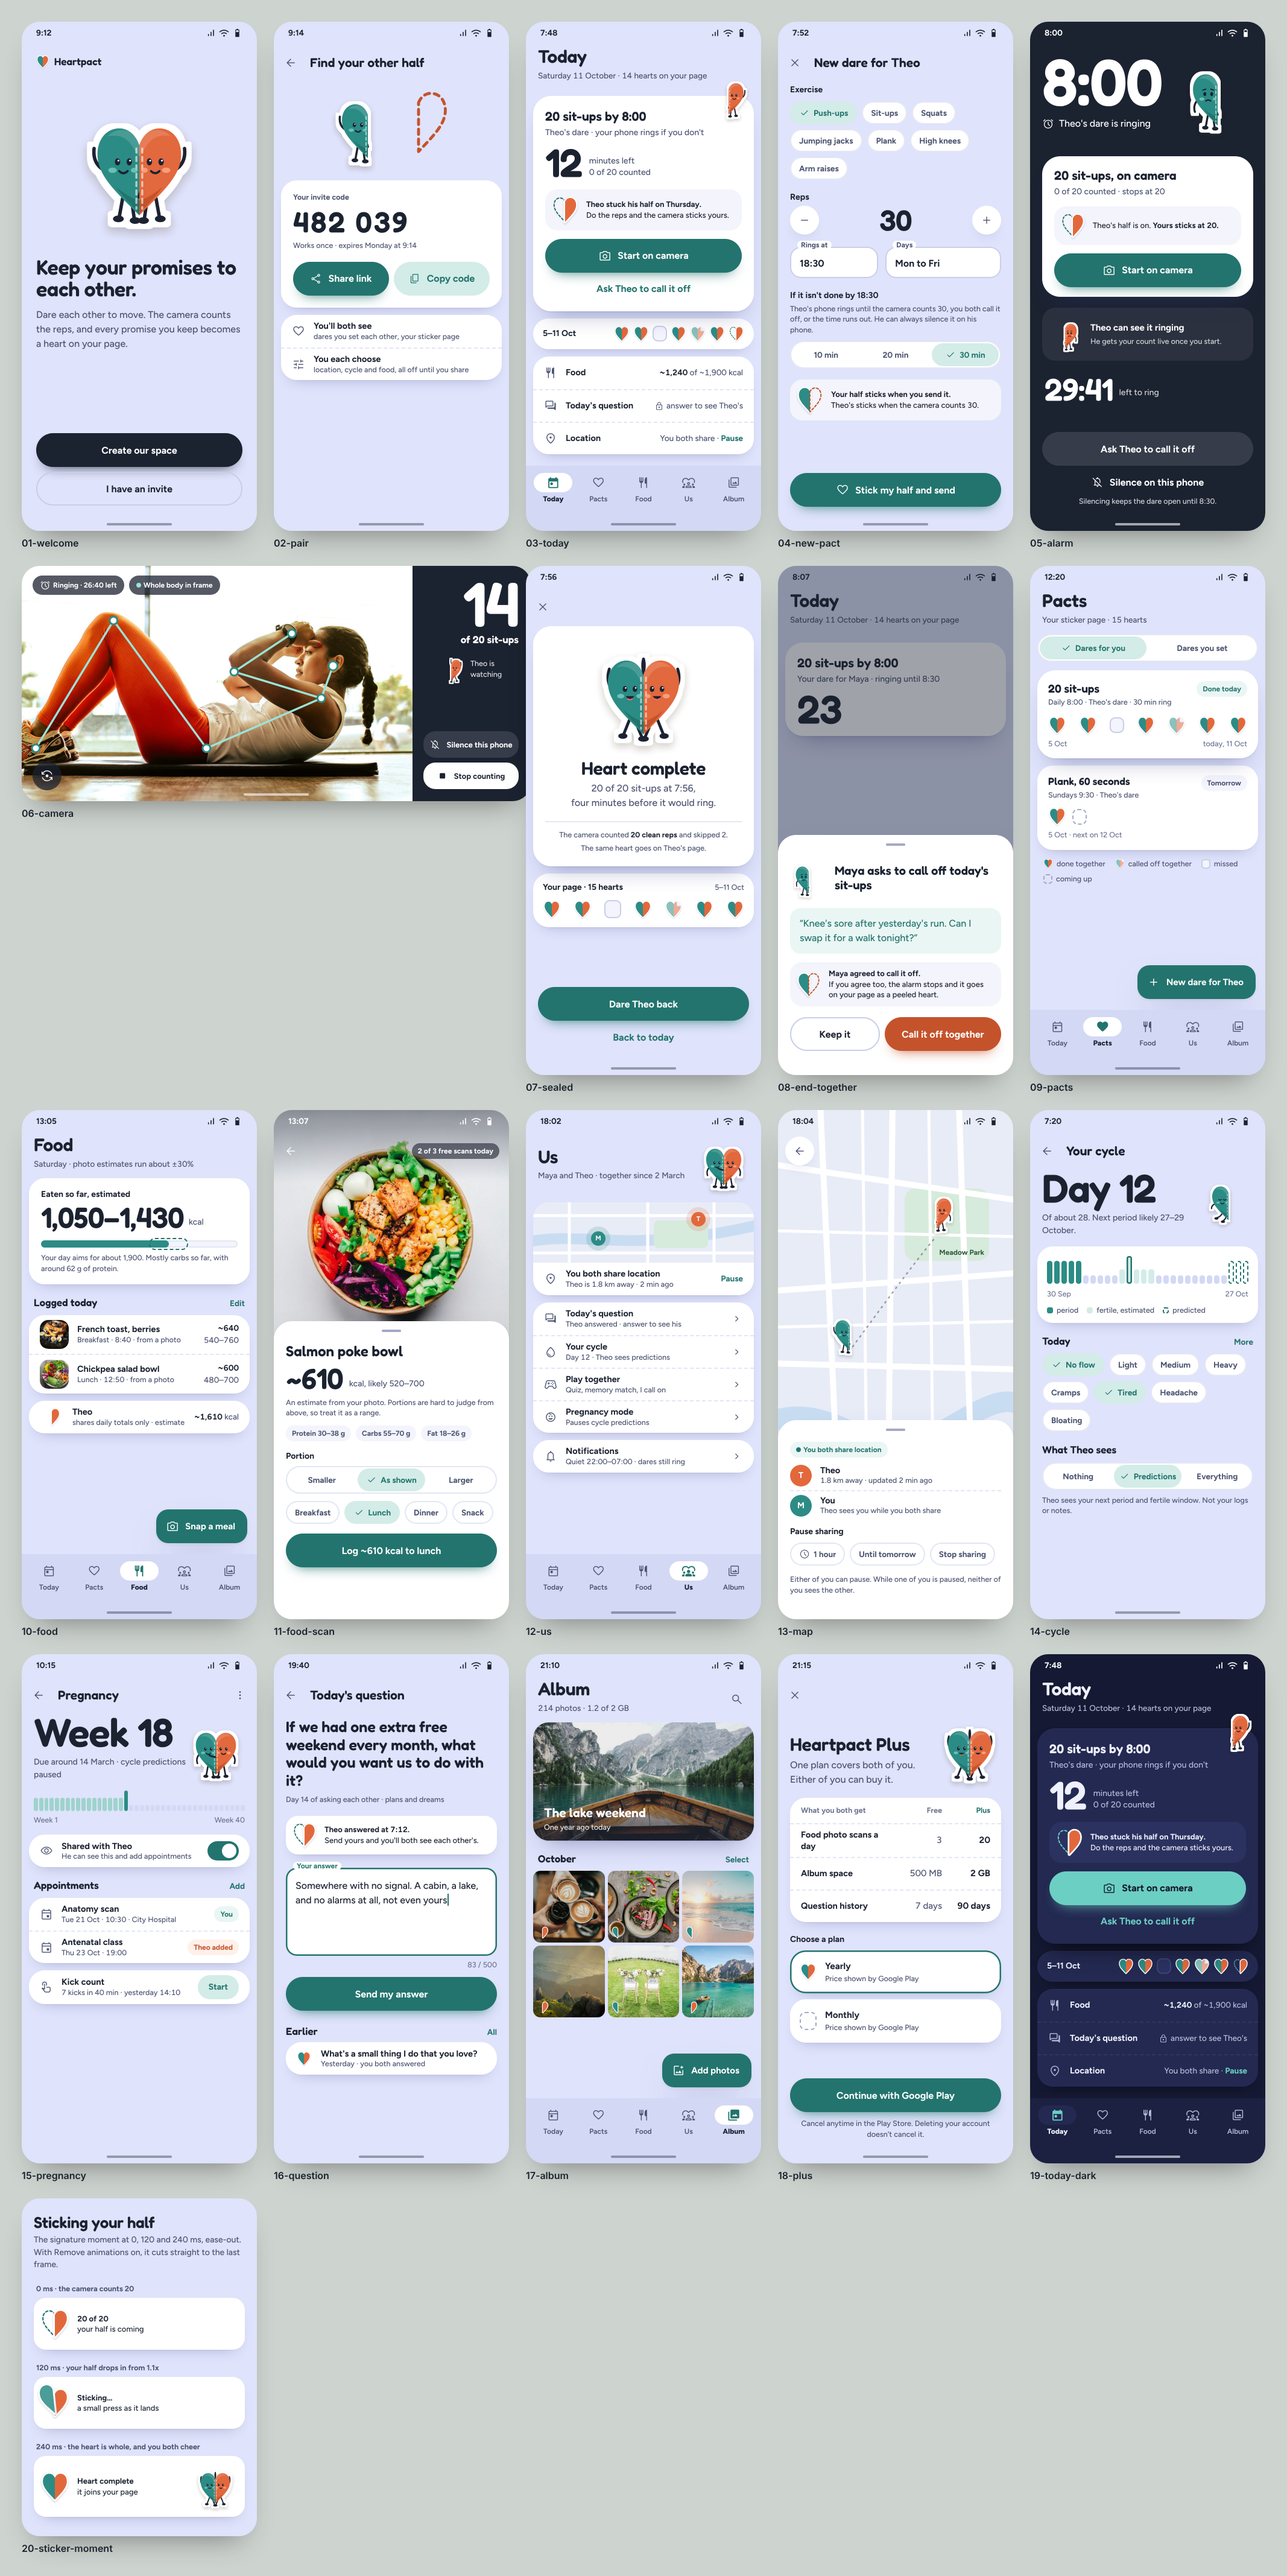
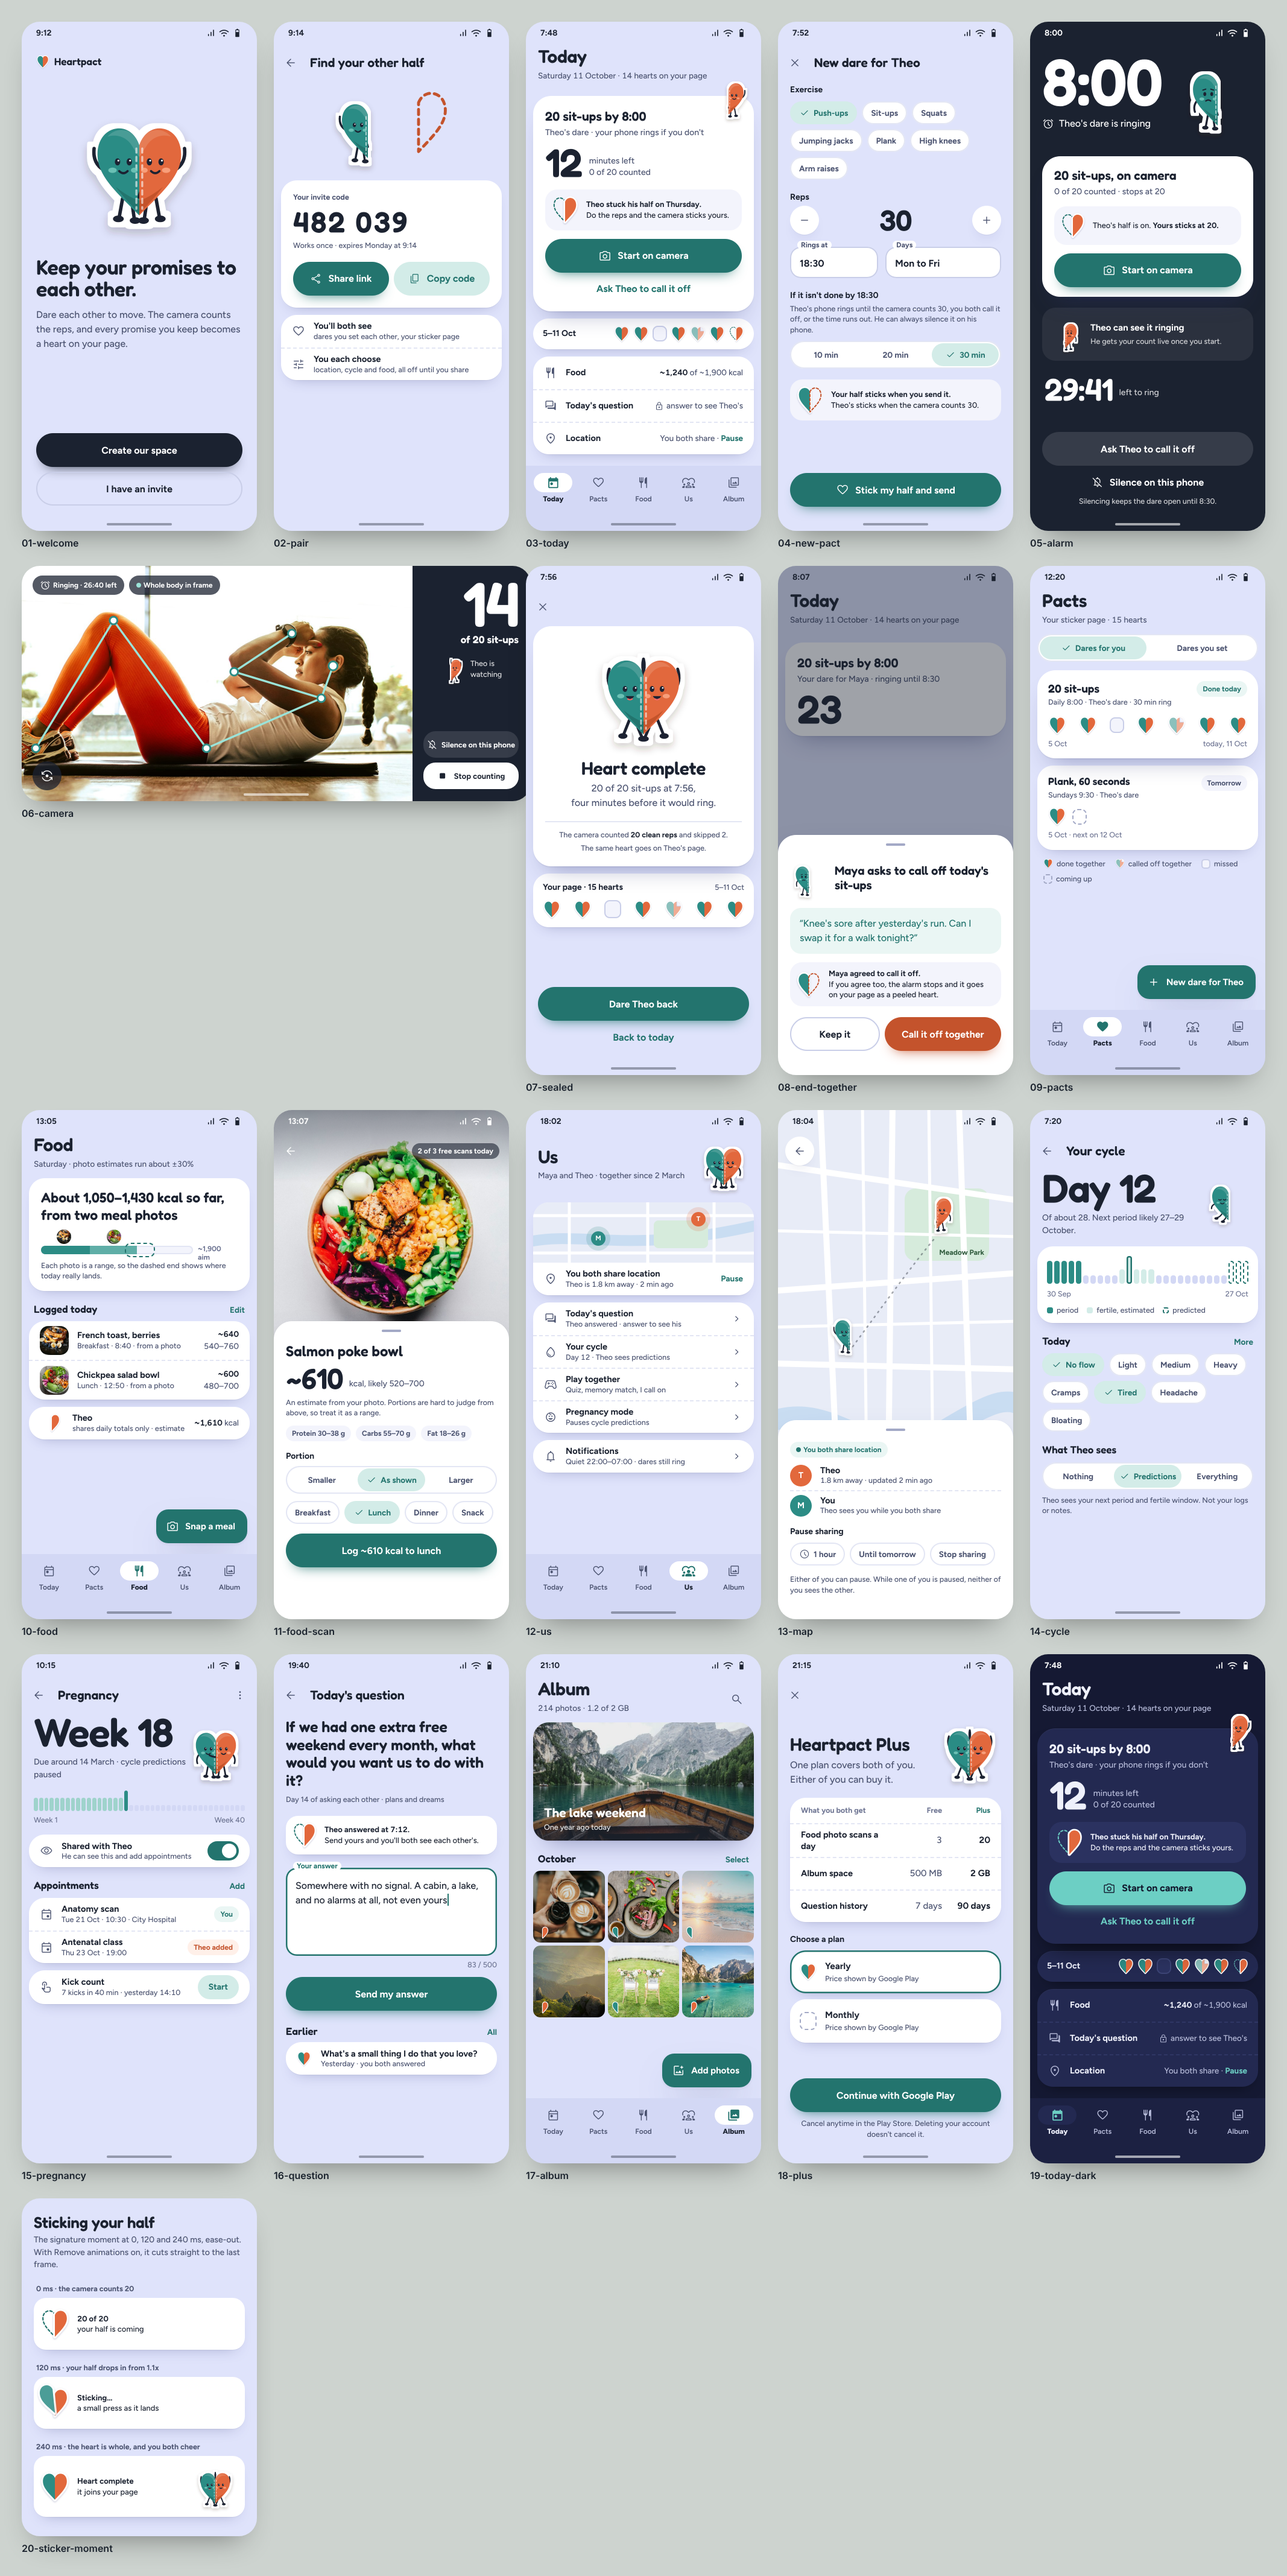
Rework Heartpact v3 food summary around its estimate range
The range is now the sentence, with meal photos placed on the band;
the silence control reads the same on the alarm and camera screens.

Claude-Session: https://claude.ai/code/session_01JQgGJKj4npsEDXdNrsNSqP

Changed region(s): [[0.0309, 0.4672, 0.1856, 0.5607]]

diff --git a/design/heartpact-v3/screens/10-food.html b/design/heartpact-v3/screens/10-food.html
@@ -1,15 +1,22 @@
 <!-- {"time":"13:05","tab":"food"} -->
 <div class="scroll act-maya">
   <div class="largebar" style="padding-top:6px"><div><div class="headline">Food</div><div class="sub">Saturday · photo estimates run about ±30%</div></div></div>
-  <div class="card" style="margin:0 12px;padding:18px 20px">
-    <div class="label">Eaten so far, estimated</div>
-    <div style="display:flex;align-items:flex-end;gap:8px;margin-top:6px"><span class="display-s">1,050–1,430</span><span class="body muted" style="padding-bottom:4px">kcal</span></div>
-    <div style="position:relative;height:12px;border-radius:6px;background:var(--sticker-2);margin-top:16px;box-shadow:inset 0 0 0 2px var(--rule)">
-      <div style="position:absolute;left:0;top:0;bottom:0;width:65%;border-radius:6px;background:var(--maya-art)"></div>
-      <div style="position:absolute;left:55%;width:20%;top:-4px;bottom:-4px;border-radius:10px;border:2px dashed var(--maya)"></div>
+  <div class="card" style="margin:0 12px;padding:18px 20px 16px">
+    <div class="title" style="font-size:23px;line-height:1.25">About 1,050–1,430 kcal so far, from two meal photos</div>
+    <div class="band">
+      <div class="seg1"></div><div class="seg2"></div><div class="unc"></div>
+      <div class="pin" style="left:15%;background-image:url(../assets/food-french-toast.jpg)"></div>
+      <div class="pin" style="left:48%;background-image:url(../assets/food-salad.jpg)"></div>
+      <span class="aim">~1,900 aim</span>
     </div>
-    <div class="small muted" style="margin-top:8px">Your day aims for about 1,900. Mostly carbs so far, with around 62 g of protein.</div>
+    <div class="small muted" style="margin-top:10px">Each photo is a range, so the dashed end shows where today really lands.</div>
   </div>
+<style>.band{position:relative;height:14px;border-radius:7px;background:var(--sticker-2);box-shadow:inset 0 0 0 2px var(--rule);margin:36px 74px 0 0}
+.band .seg1{position:absolute;left:0;top:0;bottom:0;width:32%;border-radius:7px 0 0 7px;background:var(--maya-art)}
+.band .seg2{position:absolute;left:32%;top:0;bottom:0;width:31%;background:#5FAEA7}
+.band .unc{position:absolute;left:55%;width:20%;top:-5px;bottom:-5px;border-radius:10px;border:2px dashed var(--maya)}
+.band .pin{position:absolute;top:-30px;width:30px;height:30px;margin-left:-15px;border-radius:50%;background-size:cover;background-position:center;border:3px solid #fff;box-shadow:var(--lift-1)}
+.band .aim{position:absolute;left:100%;top:-2px;margin-left:8px;font:700 12px 'Figtree';color:var(--ink-3)}</style>
   <div class="sect"><h2>Logged today</h2><a>Edit</a></div>
   <div class="card" style="margin:0 12px">
     <div class="row"><div class="photo" style="width:48px;height:48px;border-radius:14px;background-image:url(../assets/food-french-toast.jpg)"></div><div class="grow"><div class="k">French toast, berries</div><div class="s">Breakfast · 8:40 · from a photo</div></div><span class="v"><b>~640</b><br>540–760</span></div>

diff --git a/design/heartpact-v3/screens/06-camera.html b/design/heartpact-v3/screens/06-camera.html
@@ -11,7 +11,7 @@
   <div class="title-s" style="margin-top:6px">of 20 sit-ups</div>
   <div style="display:flex;align-items:center;gap:8px;margin-top:10px">{{m:theo:cheer:48:sticker:cheer}}<span class="small" style="opacity:.85;text-align:left;max-width:80px">Theo is watching</span></div>
   <div style="display:flex;flex-direction:column;gap:8px;margin-top:auto;width:100%">
-    <div class="btn sm" style="height:44px;background:rgba(255,255,255,.12);color:#fff;font-size:13px;padding:0 10px"><span class="ms s18">notifications_off</span>Silence this phone</div>
+    <div class="btn sm" style="height:44px;background:rgba(255,255,255,.12);color:#fff;font-size:12.5px;padding:0 8px;gap:6px"><span class="ms s18">notifications_off</span>Silence on this phone</div>
     <div class="btn sm" style="height:44px;background:#fff;color:#1B2230;font-size:13px;padding:0 10px"><span class="ms s18 fill">stop</span>Stop counting</div>
   </div>
 </div>
